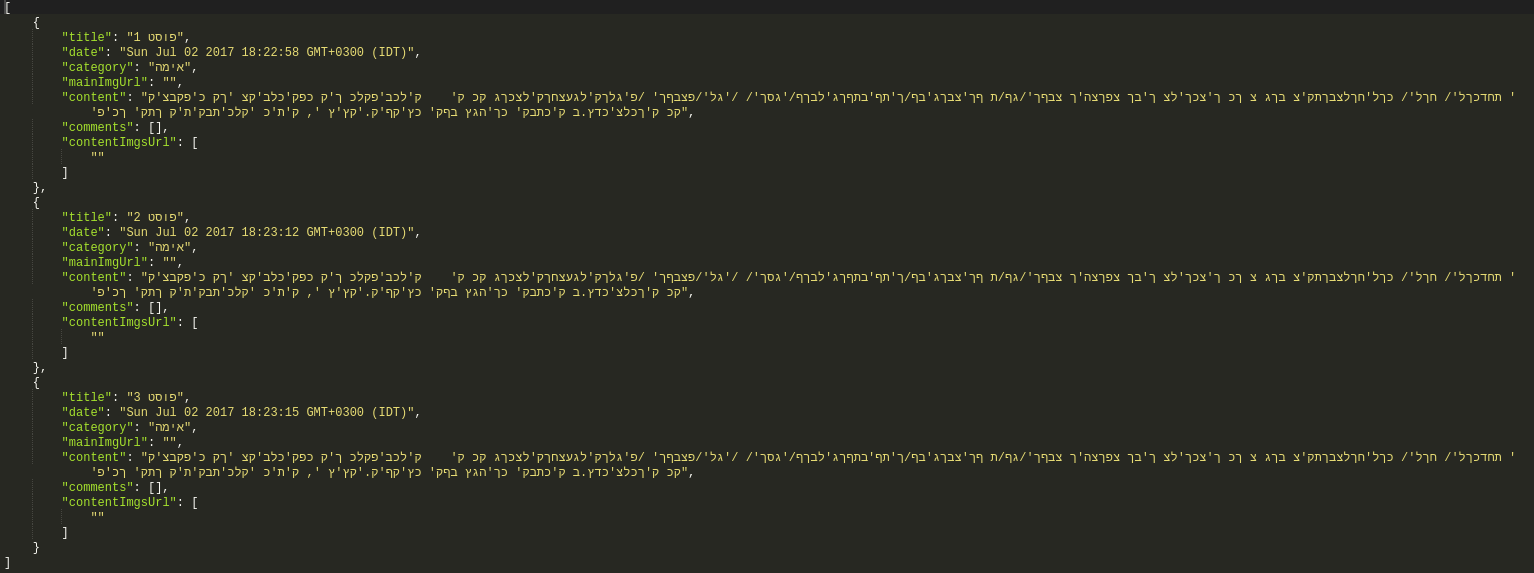
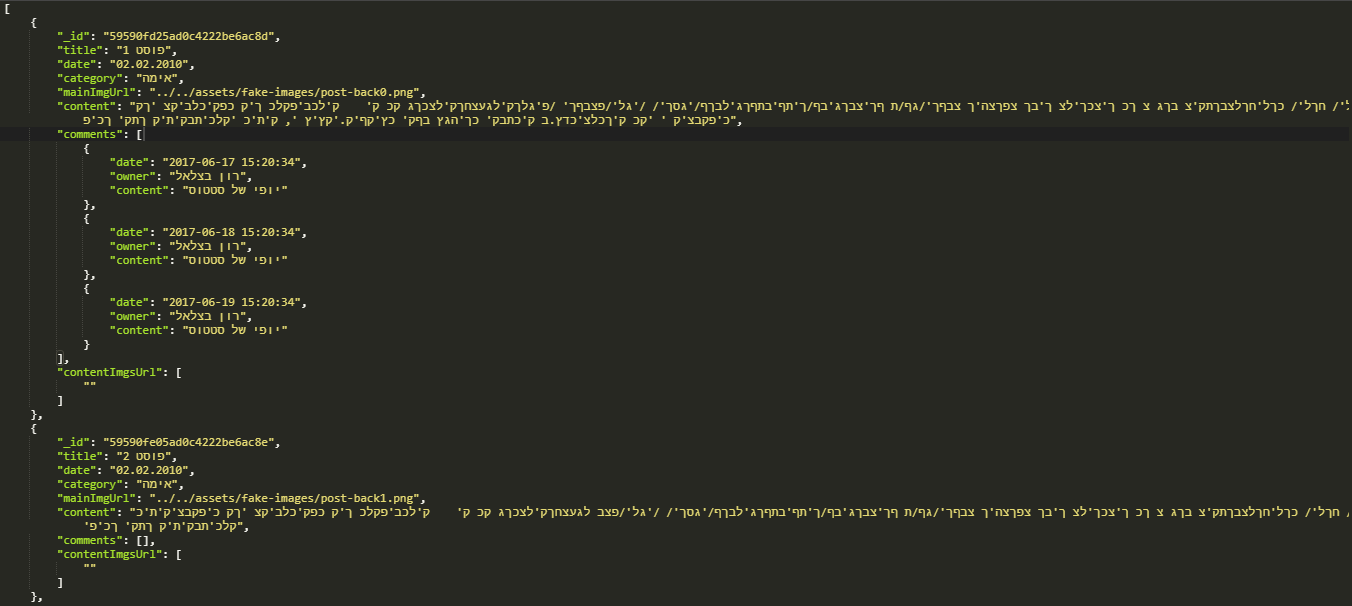
fix posts return parameters

diff --git a/controllers/TweetsController.js b/controllers/TweetsController.js
@@ -120,38 +120,6 @@ exports.GetTopStatusObj = (req,res) => {
     return;
 }
 
-// //Get status by id
-// exports.GetStatusById = (req,res) => { 
-//   var urlPart = url.parse(req.url, true);
-//   var query   = urlPart.query;
-
-//   var statusId = query.statusId;
-//   console.log(`Fetch status ${statusId}`);
-
-//   conn.collection('users').aggregate(
-//     [
-//      { $unwind: "$statuses" }
-//     ]
-//     ).toArray(function(err, statuses) {
-//              console.log(statuses);
-//              var found = false;
-//              for(var index in statuses){
-//                 if(statuses[index].statuses._id == statusId){
-//                   console.log(statuses[index]);
-//                   var status = {};
-//                   status["userName"] = statuses[index].userName;
-//                   status["imgUrl"] = statuses[index].imgUrl;
-//                   status["statusObj"] = statuses[index].statuses;
-//                   return res.send(status);
-//                 }
-//           }
-//           if(!found){
-//             return res.send(genarateErrorJson("Status not found"));
-//           }
-//        });
-//     return;
-// }
-
 //Get status by id
 exports.GetStatusById = (req,res) => { 
   var urlPart = url.parse(req.url, true);
@@ -213,7 +181,7 @@ exports.GetTop10Statuses = (req,res) => {
 //Get all posts in the system
 exports.GetAllPosts = (req,res) => { 
   console.log(`Fetch all posts`);
-  conn.collection('posts').find({}, {'_id': 0}).toArray(function(err, posts) {
+  conn.collection('posts').find({}).toArray(function(err, posts) {
            console.log(posts);
            res.send(posts);
            return;
@@ -224,12 +192,18 @@ exports.GetAllPosts = (req,res) => {
 //Get all posts summery in the system
 exports.GetAllPostsSummery = (req,res) => { 
   console.log(`Fetch all posts summery`);
-  conn.collection('posts').find({}, {'_id': 0}).toArray(function(err, posts) {
+  conn.collection('posts').find({}).toArray(function(err, posts) {
             var result = [];
             for(var postIndex in posts){
               var splitedString = posts[postIndex].content.split(/[,.]+/, 5);
-              console.log(`splited: ${splitedString}`);
-              result.push(splitedString);
+              var summeryObj = {};
+              summeryObj['_id'] = posts[postIndex]._id;
+              summeryObj['date'] = posts[postIndex].date;
+              summeryObj['title'] = posts[postIndex].title;
+              summeryObj['category'] = posts[postIndex].category;
+              summeryObj['mainImgUrl'] = posts[postIndex].mainImgUrl;
+              summeryObj['summery'] = splitedString;
+              result.push(summeryObj);
             }
             console.log(result);
             return res.send(result);
@@ -298,15 +272,19 @@ exports.GetPostsSummeryByCategory = (req,res) => {
   console.log(`Fetch all posts summery where category is ${category}`);
 
   conn.collection('posts').find(
-    {'category': category},
-    {'_id': 0},
-    { $limit: 3 }
+    {'category': category}
   ).toArray(function(err, posts) {
             var result = [];
             for(var postIndex in posts){
               var splitedString = posts[postIndex].content.split(/[,.]+/, 5);
-              console.log(`splited: ${splitedString}`);
-              result.push(splitedString);
+              var summeryObj = {};
+              summeryObj['_id'] = posts[postIndex]._id;
+              summeryObj['date'] = posts[postIndex].date;
+              summeryObj['title'] = posts[postIndex].title;
+              summeryObj['category'] = posts[postIndex].category;
+              summeryObj['mainImgUrl'] = posts[postIndex].mainImgUrl;
+              summeryObj['summery'] = splitedString;
+              result.push(summeryObj);
             }
             console.log(result);
             return res.send(result);
@@ -324,8 +302,7 @@ exports.GetPostsByCategory = (req,res) => {
   console.log(`Fetch all posts with category ${category} summery`);
 
   conn.collection('posts').find(
-      {'category': category},
-      {'_id': 0}
+      {'category': category}
       ).toArray(function(err, posts) {
            console.log(posts);
            res.send(posts);

diff --git a/server.js b/server.js
@@ -9,7 +9,6 @@ const express           = require('express'),
       session           = require('client-sessions'),
       port              = process.env.PORT || 3000;
 
-//const conn = mongoose.connection;//get default connection
 
 app.use(bodyParser.json());
 app.use(bodyParser.urlencoded({ extended: true}));
@@ -26,7 +25,6 @@ app.use(session({
   ephemeral: true
 }));
 
-//app.set('port',port);
 app.use(
   (req,res,next) => {
   res.header("Access-Control-Allow-Origin", "*");
@@ -53,7 +51,8 @@ app.post('/login', function(req, res) {
     } else {
       if (req.body.password === user.password) {
         req.session.user = user;
-        res.send(true);
+        console.log(user['imgUrl'])
+        res.json(user['imgUrl']);
       } else {
         res.json({"error": "invalid password"});
       }
@@ -164,11 +163,6 @@ function requireLogin (req, res, next) {
       next();
     }
   });
-  // if (!req.user) {
-  //   res.json({"error": "you are not logged in, login and try again"});
-  // } else {
-  //   next();
-  // }
 };
 
 app.listen(port);

diff --git a/public/api.html b/public/api.html
@@ -14,6 +14,7 @@
 				<p>
 					<h6>Parameter: userName (str), password (str), imgUrl (str)</h6>
 					<h6>return Boolean: True if succeed false otherwise</h6>
+					<img src="/assets/images/login.png"/>
 				</p>
 			</p>
 			<p>
